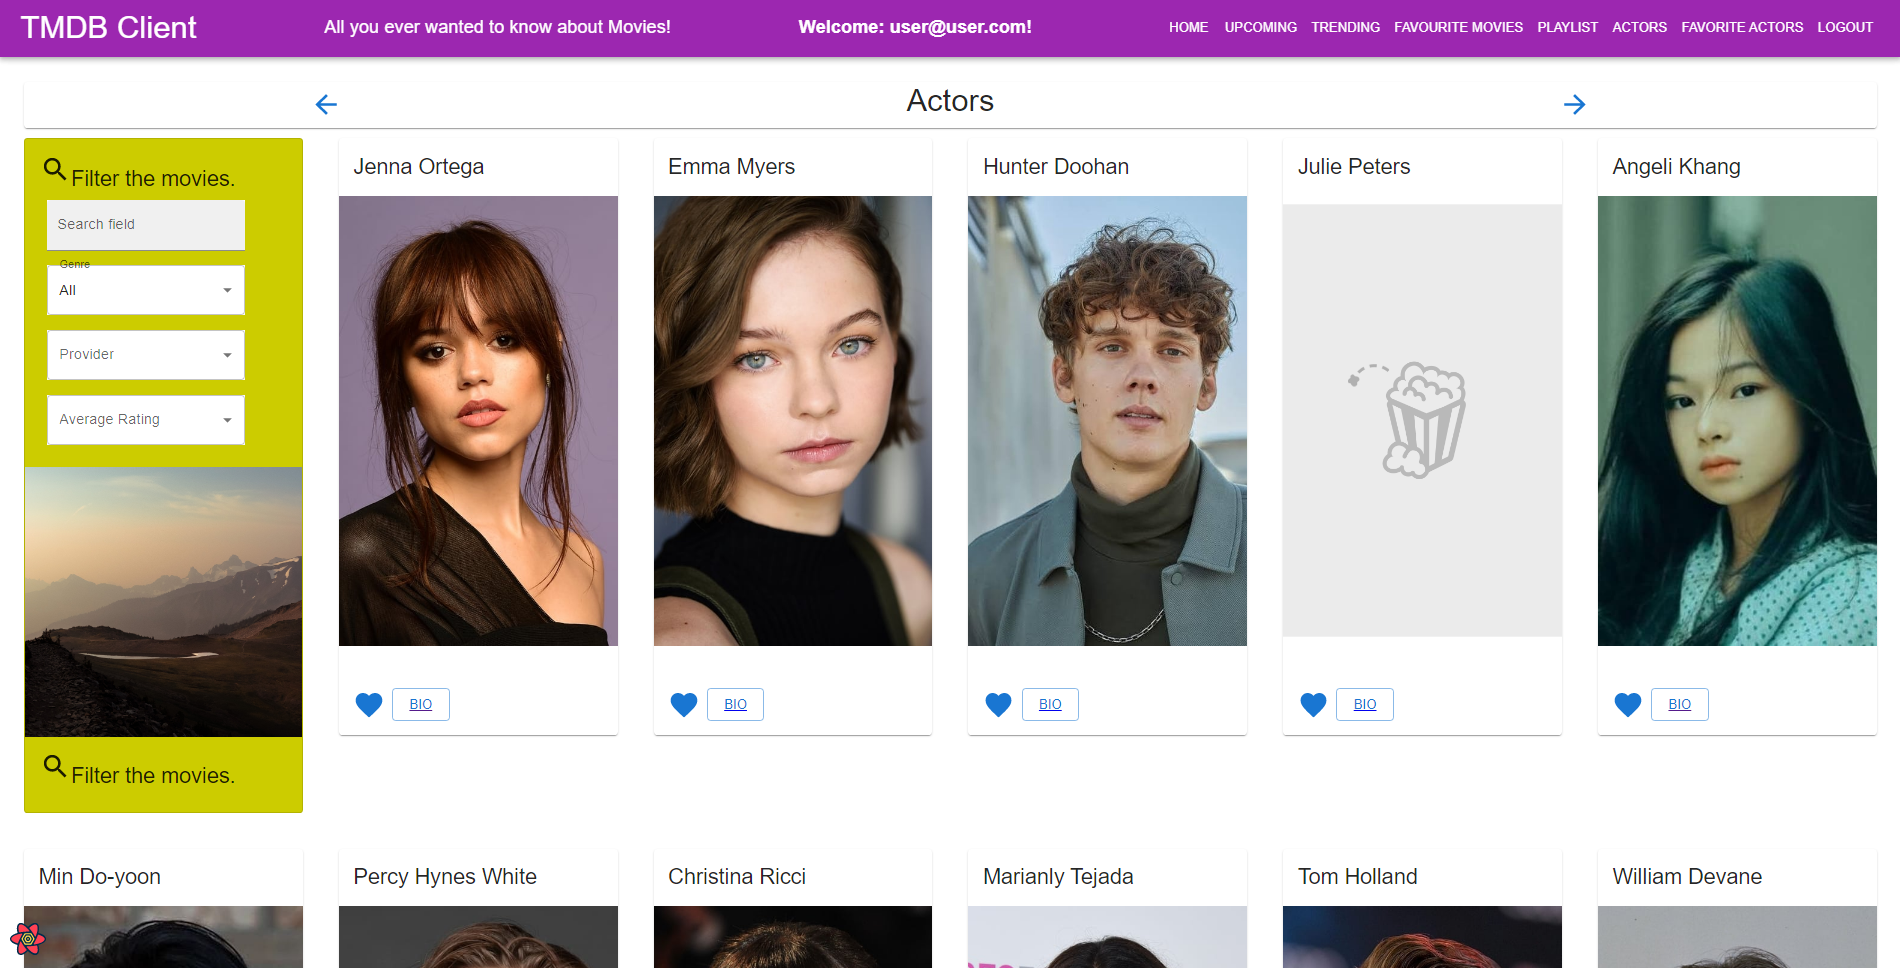
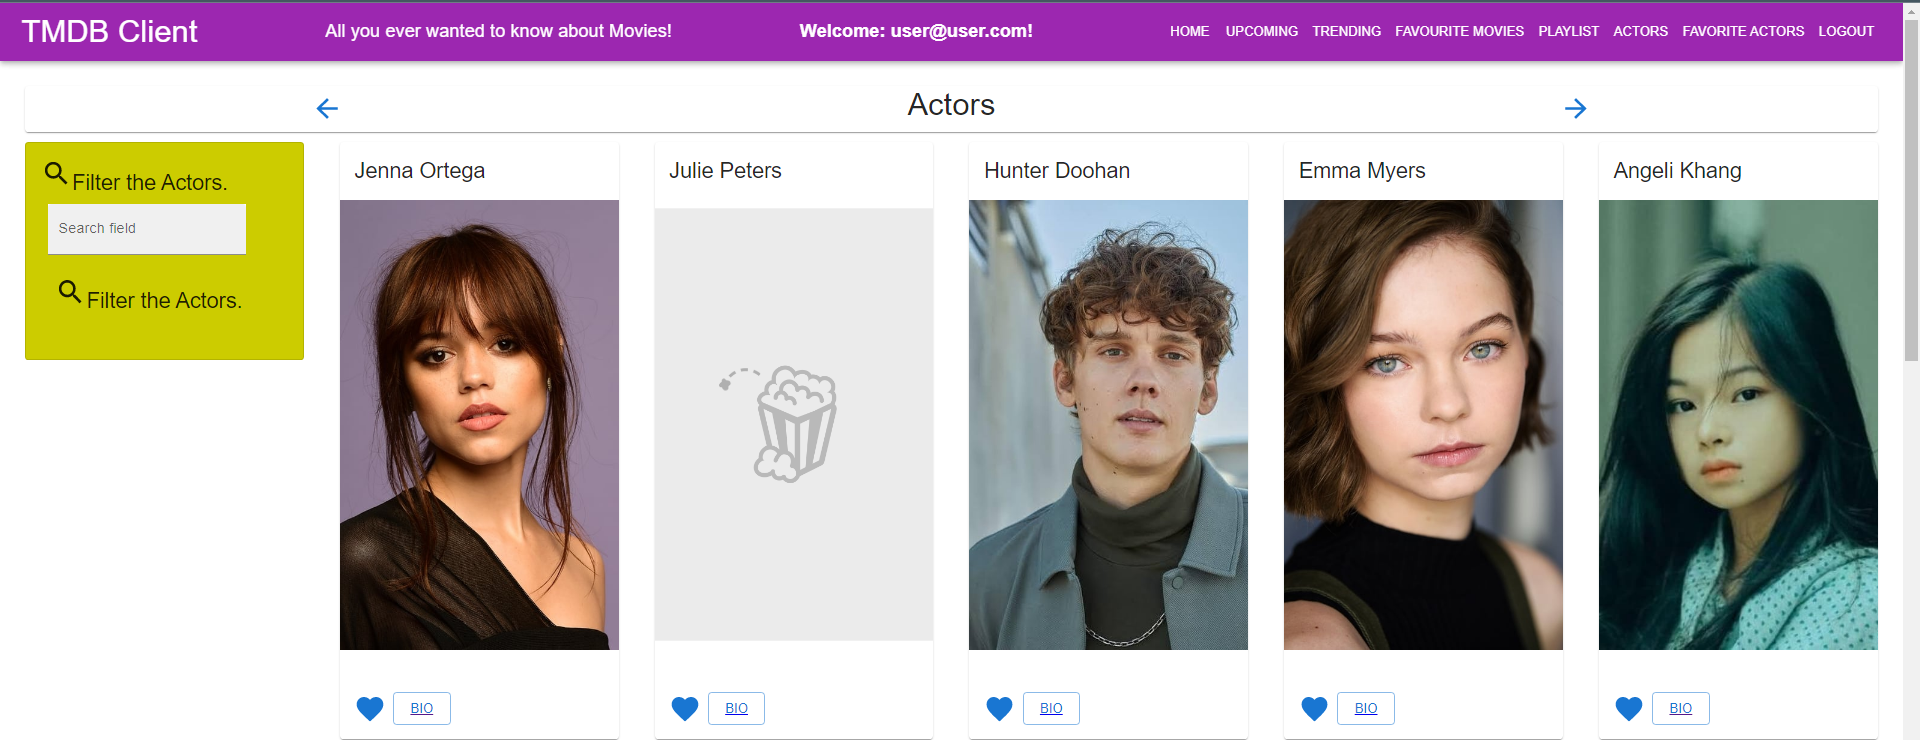
README file updated and actors Filter Card made

diff --git a/src/components/filterActorsCard/index.js b/src/components/filterActorsCard/index.js
@@ -1,0 +1,66 @@
+import React from "react";
+import Card from "@mui/material/Card";
+import CardMedia from "@mui/material/CardMedia";
+import CardContent from "@mui/material/CardContent";
+import Typography from "@mui/material/Typography";
+import InputLabel from "@mui/material/InputLabel";
+import MenuItem from "@mui/material/MenuItem";
+import TextField from "@mui/material/TextField";
+import SearchIcon from "@mui/icons-material/Search";
+import FormControl from "@mui/material/FormControl";
+import Select from "@mui/material/Select";
+import img from '../../images/pexels-dziana-hasanbekava-5480827.jpg'
+import { useQuery } from "react-query";
+import Spinner from '../spinner'
+
+const formControl = 
+  {
+    margin: 1,
+    minWidth: 220,
+    backgroundColor: "rgb(255, 255, 255)"
+  };
+
+  export default function FilterActorsCard(props) {
+   
+    const handleChange = (e, type, value) => {
+      e.preventDefault();
+      props.onUserInput(type, value); // NEW
+    };
+  
+    const handleTextChange = (e) => {
+      handleChange(e, "name", e.target.value);
+    };
+  
+  return (
+    <Card 
+      sx={{
+        maxWidth: 345,
+        backgroundColor: "rgb(204, 204, 0)"
+      }} 
+      variant="outlined">
+      <CardContent>
+        <Typography variant="h5" component="h1">
+          <SearchIcon fontSize="large" />
+          Filter the Actors.
+        </Typography>
+        <TextField
+         sx={formControl}
+         id="filled-search"
+         label="Search field"
+         type="search"
+         variant="filled"
+         value={props.titleFilter}
+         onChange={handleTextChange}
+        />
+      
+      <CardContent>
+        <Typography variant="h5" component="h1">
+          <SearchIcon fontSize="large" />
+          Filter the Actors.
+          <br />
+        </Typography>
+      </CardContent>
+  </CardContent>
+  </Card>
+  );
+}

diff --git a/src/components/templateActorsListPage/index.js b/src/components/templateActorsListPage/index.js
@@ -2,11 +2,10 @@ import React, { useState } from "react";
 import Header from "../headerMovieList";
 import ActorList from "../ActorList";
 import Grid from "@mui/material/Grid";
-import FilterCard from "../filterMoviesCard";
+import FilterCard from "../filterActorsCard";
 
 function ActorListPageTemplate({ actors, title, action }) {
   const [nameFilter, setNameFilter] = useState("");
-  const [genreFilter, setGenreFilter] = useState("0");
   let displayedActors = actors
     .filter((m) => {
       return m.name.toLowerCase().search(nameFilter.toLowerCase()) !== -1;
@@ -15,7 +14,6 @@ function ActorListPageTemplate({ actors, title, action }) {
     
     const handleChange = (type, value) => {
       if (type === "name") setNameFilter(value);
-      else setGenreFilter(value);
     };
 
 
@@ -29,7 +27,6 @@ function ActorListPageTemplate({ actors, title, action }) {
         <FilterCard
             onUserInput={handleChange}
             titleFilter={nameFilter}
-            genreFilter={genreFilter}
           />
         </Grid>
         <ActorList action={action} actors={displayedActors}></ActorList>

diff --git a/src/components/templateMovieListPage/index.js b/src/components/templateMovieListPage/index.js
@@ -24,9 +24,9 @@ function MovieListPageTemplate({ movies, title, action }) {
     .filter((m) => {
       return genreId > 0 ? m.genre_ids.includes(genreId) : true;
     })
-    // .filter((m) => {
-    //   return providerId > 0 ? provider_ids.includes(providerId) : true;
-    // });
+    .filter((m) => {
+      return providerId > 0 ? m.provider_ids.includes(providerId) : true;
+    })
     .filter((m)=> {
       return  m.vote_average >= ratingFilter;
     })
